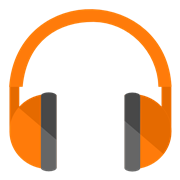
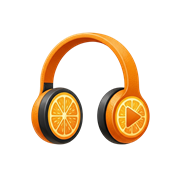
chore: 更新应用与 PWA 图标为橙子耳机
1.png（透明底）用于站内/飞牛图标；2 用于 PWA；刷新缓存版本避免旧图残留。

diff --git a/index.html b/index.html
@@ -14,11 +14,11 @@
   <meta name="description" content="飞牛 NAS 柠檬音乐：搜索、下载与本地音乐库" />
   <title>柠檬音乐下载</title>
   <link rel="manifest" href="/manifest.webmanifest" />
-  <!-- 网页/浏览器标题栏：黑底原图标（带版本参数避免缓存残留暖色图） -->
-  <link rel="icon" href="/favicon.png?v=legacy" type="image/png" sizes="any" />
-  <link rel="shortcut icon" href="/favicon.png?v=legacy" type="image/png" />
-  <link rel="apple-touch-icon" href="/apple-touch-icon.png?v=legacy" />
-  <link rel="apple-touch-icon" href="/pwa/icon-192.png" sizes="192x192" />
+  <!-- 网页/浏览器标题栏图标（版本参数用于刷新缓存） -->
+  <link rel="icon" href="/favicon.png?v=orange-hp-2" type="image/png" sizes="any" />
+  <link rel="shortcut icon" href="/favicon.png?v=orange-hp-2" type="image/png" />
+  <link rel="apple-touch-icon" href="/apple-touch-icon.png?v=orange-hp-2" />
+  <link rel="apple-touch-icon" href="/pwa/icon-192.png?v=orange-hp-2" sizes="192x192" />
 </head>
 <body>
   <div id="app"></div>

diff --git a/src/utils/appIcon.js b/src/utils/appIcon.js
@@ -1,5 +1,5 @@
-/** 站内 UI / 浏览器图标：黑底原版；桌面 PWA 暖色图标见 /pwa/ */
-export const APP_ICON_URL = '/icon.png?v=legacy'
+/** 站内 UI / 浏览器图标；桌面 PWA 图标见 /pwa/ */
+export const APP_ICON_URL = '/icon.png?v=orange-hp-2'
 
 export function isAppIconUrl(url) {
   const s = String(url || '')

diff --git a/public/sw.js b/public/sw.js
@@ -1,5 +1,5 @@
 /* 柠檬音乐：仅缓存前端壳，不缓存 /api、/ws 与音频流 */
-const CACHE = 'lemon-shell-v1.2.16.8-harmony'
+const CACHE = 'lemon-shell-v1.2.16.12-orange-hp-2'
 
 const PRECACHE = [
   '/',
